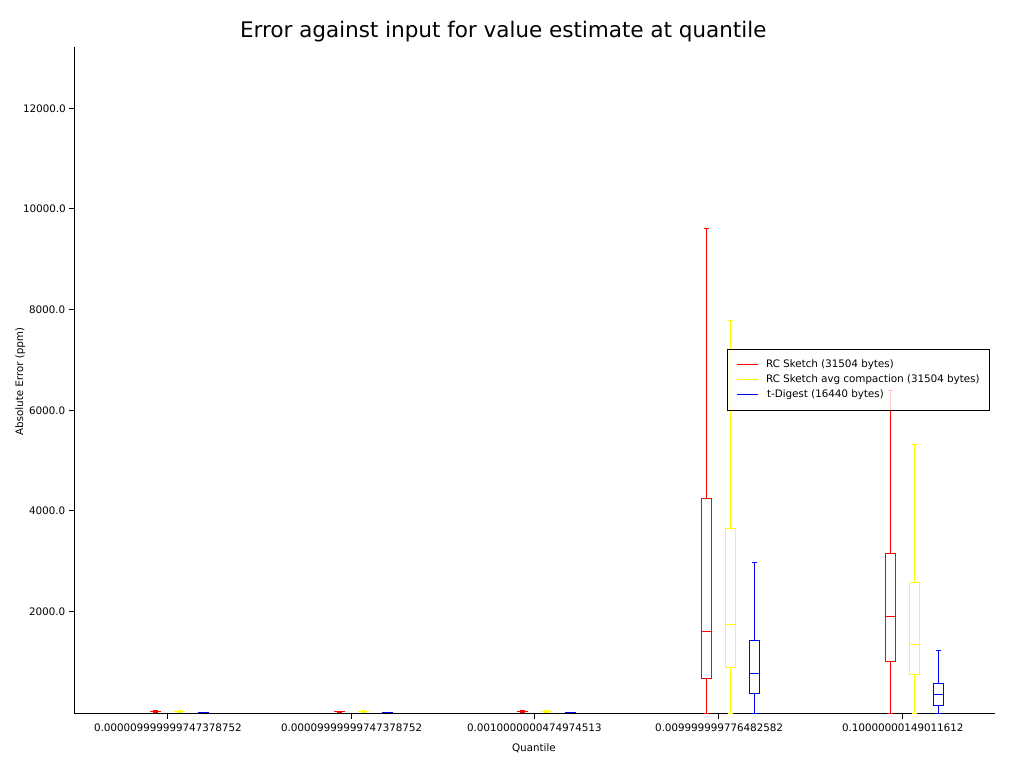
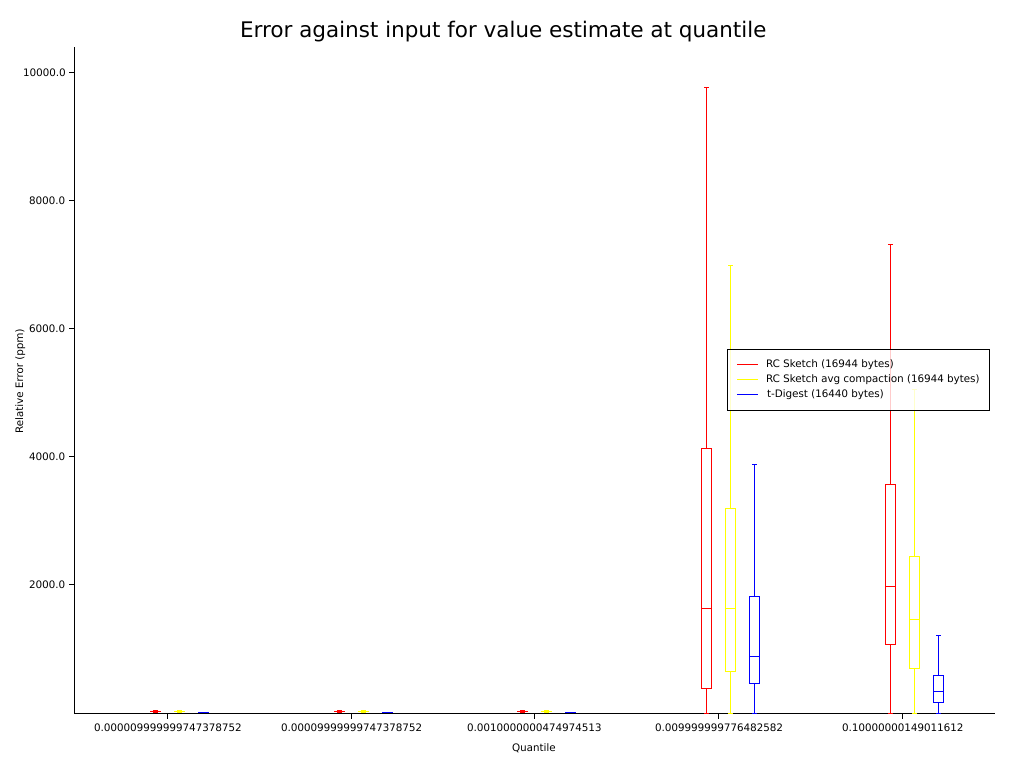
Plot error against input size in accuracy example and alter relative compactor add batch to behave like normal add

diff --git a/examples/accuracy.rs b/examples/accuracy.rs
@@ -582,7 +582,7 @@ where
         series,
         &Path::new("plots/acc_vs_input_est_value_from_quantile.png"),
         "Quantile",
-        "Absolute Error (ppm)",
+        "Relative Error (ppm)",
     )
     .unwrap();
 }
@@ -709,7 +709,7 @@ where
         series,
         &Path::new("plots/acc_vs_input_est_quantile_from_value.png"),
         "Value",
-        "Absolute Error (ppm)",
+        "Relative Error (ppm)",
     )
     .unwrap();
 }
@@ -824,8 +824,8 @@ where
         "Error at against memory usage for quantile estimate at value",
         series,
         &Path::new("plots/err_vs_mem_usage_for_est_quantile_from_value.png"),
-        "Value",
-        "Absolute Error (ppm)",
+        "Memory (bytes)",
+        "Relative Error (ppm)",
         false,
     )
     .unwrap();
@@ -926,11 +926,11 @@ where
         });
     }
     plot_line_graph(
-        "Error at against input size for quantile estimate at value",
+        "Error at against input size for value estimate at quantile",
         series,
-        &Path::new("plots/err_vs_input_for_est_quantile_from_value.png"),
+        &Path::new("plots/err_vs_input_for_est_value_from_quantile.png"),
         "Input size",
-        "Absolute Error (ppm)",
+        "Relative Error (ppm)",
         false,
     )
     .unwrap();
@@ -953,7 +953,7 @@ where
     };
 
     let mut series = Vec::new();
-    let comp_params: Vec<u32> = (1..18).map(|x| 1 << x).collect();
+    let comp_params: Vec<u32> = (0..18).map(|x| 1 << x).collect();
     let mut s = Vec::new();
     for comp_param in &comp_params {
         let x = create_rcsketch(&gen_uniform_vec(10_000_000), T::from(*comp_param).unwrap());
@@ -1027,6 +1027,81 @@ where
     .unwrap();
 }
 
+fn plot_memory_usage_against_input_size<T>()
+where
+    T: Float + Sync + Send + NumAssignOps,
+{
+    let create_rcsketch = |dataset: &[T], param: T| {
+        let mut digest = RCSketch::new(dataset.len(), param.to_usize().unwrap());
+        digest.add_buffer(dataset);
+        digest
+    };
+
+    let create_t_digest = |dataset: &[T], param: T| {
+        let mut digest = TDigest::new(&scale_functions::k2, &scale_functions::inv_k2, param);
+        digest.add_buffer(dataset);
+        digest
+    };
+
+    let input_sizes: Vec<i32> = (0..24).map(|x| 1 << x).collect();
+    let rc_sketch_param = T::from(20.0).unwrap();
+    let t_digest_param = T::from(6000.0).unwrap();
+
+    let mut series = Vec::new();
+    let mut s = Vec::new();
+    for input_size in &input_sizes {
+        let x = create_rcsketch(&gen_uniform_vec(*input_size), rc_sketch_param);
+        println!(
+            "RC Sketch n = {}, param = {}, size: {} bytes",
+            input_size,
+            rc_sketch_param.to_f64().unwrap(),
+            x.owned_size()
+        );
+        s.push((
+            T::from(*input_size).unwrap(),
+            vec![T::from(x.owned_size()).unwrap()],
+        ));
+    }
+
+    series.push(Line {
+        name: "RC Sketch param".to_string(),
+        datapoints: s,
+        colour: &RED,
+        marker: None,
+    });
+
+    let mut s = Vec::new();
+    for input_size in &input_sizes {
+        let x = create_t_digest(&gen_uniform_vec(*input_size), t_digest_param);
+        println!(
+            "T-Digest n = {}, param = {}, size: {} bytes",
+            input_size,
+            t_digest_param.to_f64().unwrap(),
+            x.owned_size()
+        );
+        s.push((
+            T::from(*input_size).unwrap(),
+            vec![T::from(x.owned_size()).unwrap()],
+        ));
+    }
+
+    series.push(Line {
+        name: "T-Digest".to_string(),
+        datapoints: s,
+        colour: &BLUE,
+        marker: None,
+    });
+    plot_line_graph(
+        "Memory usage against input_size parameter",
+        series,
+        &Path::new("plots/mem_vs_input_size.png"),
+        "Input size",
+        "Memory usage (bytes)",
+        false,
+    )
+    .unwrap();
+}
+
 fn absolute_error<T>(measured: T, actual: T) -> T
 where
     T: Float,
@@ -1062,12 +1137,13 @@ where
 }
 
 fn main() {
-    // value_error_against_quantile::<f32>();
-    // quantile_error_against_value::<f32>();
+    value_error_against_quantile::<f32>();
+    quantile_error_against_value::<f32>();
     // determine_required_parameter::<f32>();
     // determine_required_parameter::<f64>();
     // plot_error_against_mem_usage::<f32>();
     // plot_error_against_input_size::<f32>();
     plot_memory_usage_against_compression_parameter::<f32>();
+    plot_memory_usage_against_input_size::<f32>();
     println!("Complete");
 }

diff --git a/src/relative_compactor.rs b/src/relative_compactor.rs
@@ -58,11 +58,8 @@ where
         let length = items.len() as u64;
         // Insert into the bottom buffer
         items
-            .chunks(self.buffer_size)
+            .chunks(self.buffer_size / 2)
             .for_each(|chunk| self.insert_at_rc_batch(chunk, 0, false, CompactionMethod::Default));
-        // for item in items {
-        //     self.insert_at_rc(*item, 0, false);
-        // }
         self.count += length;
     }
 
@@ -193,12 +190,7 @@ where
     }
 
     pub fn add_buffer_fast(&mut self, items: &[F]) {
-        let length = items.len() as u64;
-        // Insert into the bottom buffer
-        items
-            .chunks(self.buffer_size)
-            .for_each(|chunk| self.insert_at_rc_batch(chunk, 0, true, CompactionMethod::Default));
-        self.count += length;
+        self.add_buffer_custom(items, true, CompactionMethod::Default)
     }
 
     /// Insert items into in the sketch
@@ -212,7 +204,7 @@ where
     ) {
         let length = items.len() as u64;
         // Insert into the bottom buffer
-        items.chunks(self.buffer_size).for_each(|chunk| {
+        items.chunks(self.buffer_size / 2).for_each(|chunk| {
             self.insert_at_rc_batch(chunk, 0, fast_compaction, compaction_method)
         });
         self.count += length;
@@ -251,9 +243,6 @@ where
                 fast_compaction,
                 compaction_method,
             );
-            // for item in output_items {
-            //     self.insert_at_rc(item, rc_index + 1, fast_compaction);
-            // }
         }
     }
 
@@ -275,7 +264,15 @@ where
             self.buffers.push(Vec::with_capacity(self.buffer_size));
             self.compaction_counters.push(0);
         }
-        self.buffers[rc_index].extend(items);
+        // Split into two parts so that the buffer is never filled passed the limit.
+        // Since the input from previous compactions can only ever be <= buffer size / 2 only two compactions
+        // are needed even if the current buffer is already full.
+        assert!(items.len() <= self.buffer_size / 2);
+        let (first, second) = match self.buffers[rc_index].len() + items.len() > self.buffer_size {
+            true => items.split_at(self.buffer_size - self.buffers[rc_index].len()),
+            false => (items, &[] as &[F]),
+        };
+        self.buffers[rc_index].extend(first);
         // If buffer is full compact and insert into the next buffer
         // Buffer may be overfilled since more than one item was added so keep compacting until size is below the buffer size.
         while self.buffers[rc_index].len() >= self.buffer_size {
@@ -291,9 +288,10 @@ where
                 fast_compaction,
                 compaction_method,
             );
-            // for item in output_items {
-            //     self.insert_at_rc(item, rc_index + 1, fast_compaction);
-            // }
+        }
+        // Add the second half of the elements if necessary
+        if !second.is_empty() {
+            self.insert_at_rc_batch(second, rc_index, fast_compaction, compaction_method);
         }
     }
 
